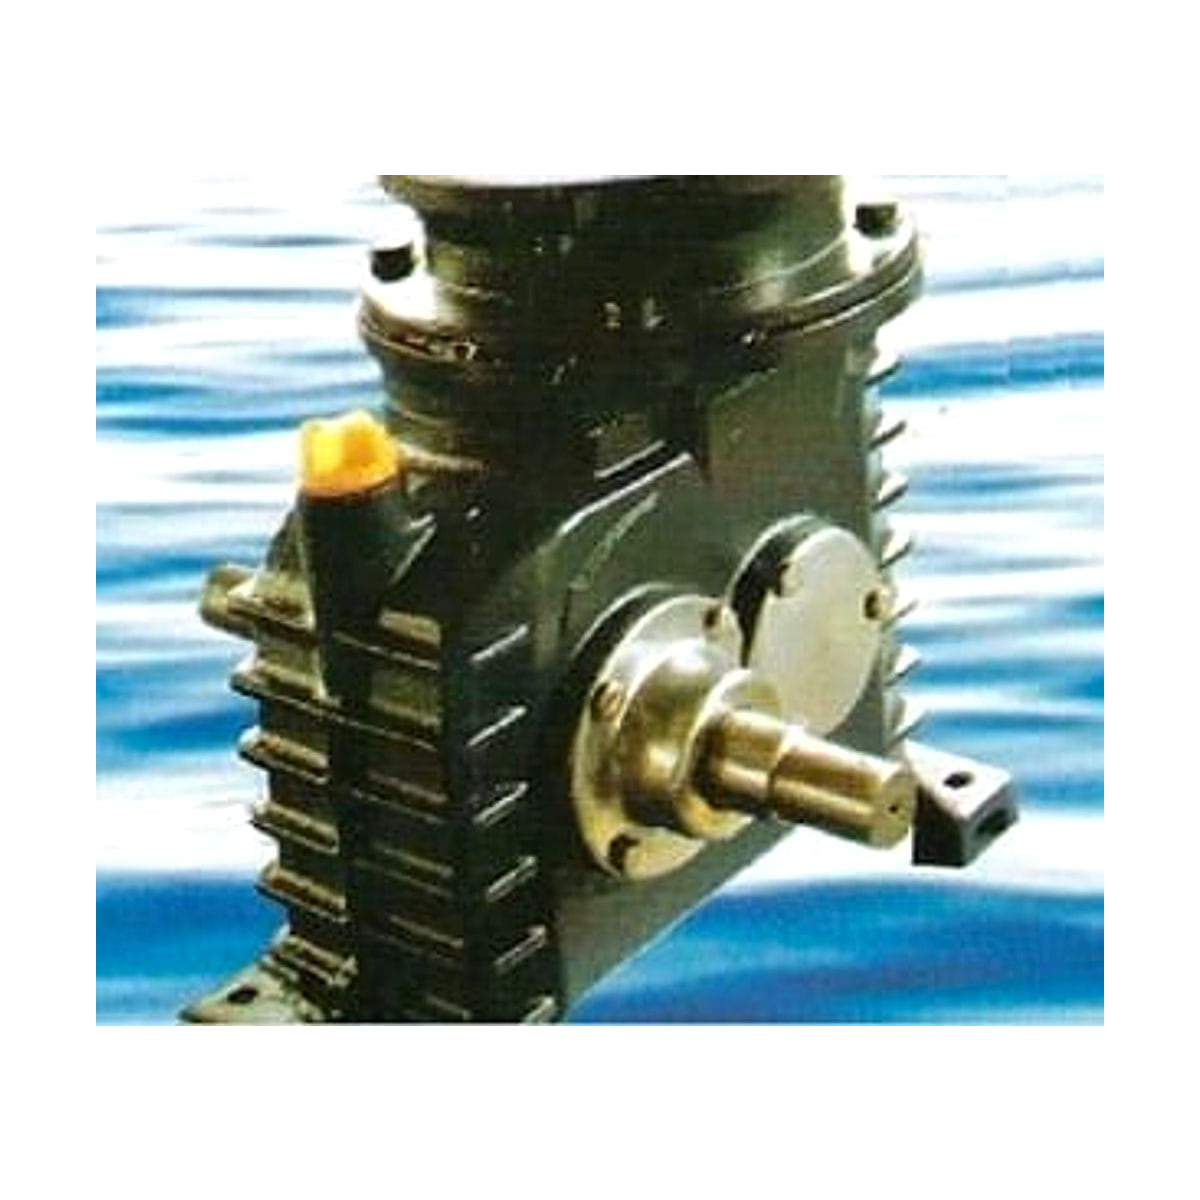
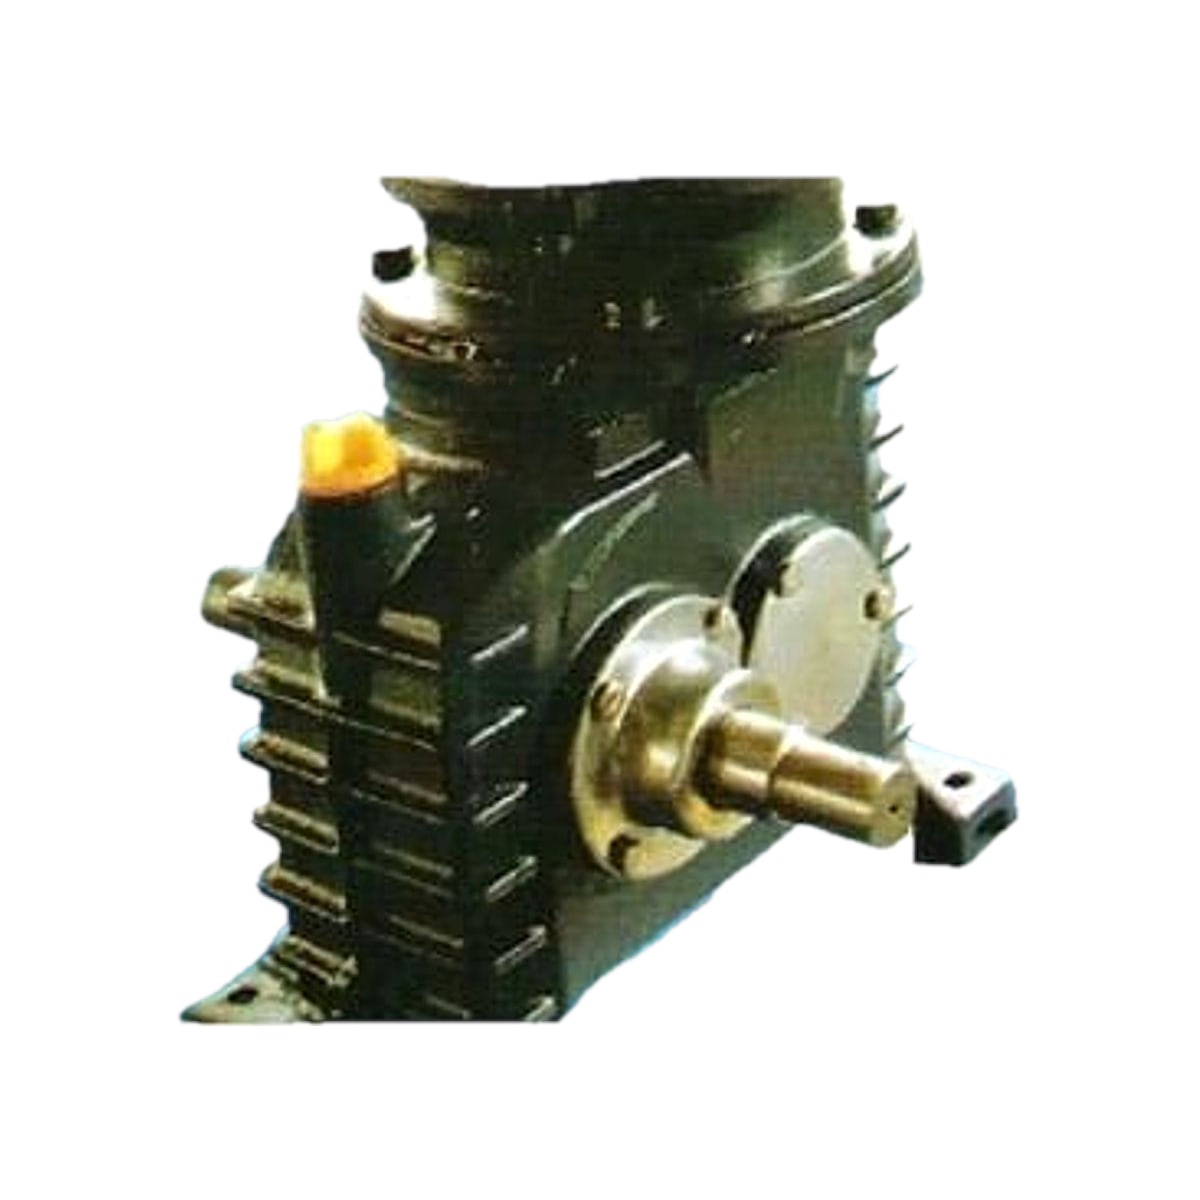
Catalogue: Chinese notes off the shop, a clean category link, photos on white
- The Chinese line at the end of every product description moves to
  metadata.note_zh: customers read the description on the shop, in the app
  and in search; the admin still shows the note. Seed and sync scripts carry
  it there; product-notes-zh.ts moves it once in existing databases.
- The machine category's handle was "kincir-air-(aerator)", taken from its
  name; WhatsApp ends a link at the bracket. It is "kincir-air" now (seed,
  sync script, and category-handles.ts for existing databases).
- Eleven catalogue photos had a blue square, water or a grey studio behind
  the part; the part is now cut out onto pure white (macOS Vision), file
  names unchanged.

diff --git a/apps/backend/src/migration-scripts/product-notes-zh.ts b/apps/backend/src/migration-scripts/product-notes-zh.ts
@@ -1,0 +1,42 @@
+import { MedusaContainer } from "@medusajs/framework";
+import { ContainerRegistrationKeys } from "@medusajs/framework/utils";
+import { updateProductsWorkflow } from "@medusajs/medusa/core-flows";
+
+// The first catalogue ended each product description with a line in Chinese for the owner.
+// Customers read the description on the shop and in the app, so that line moves to
+// metadata.note_zh, where the admin still shows it. Runs once; products without it are left alone.
+const CHINESE = /[一-鿿]/;
+const LAST_PARAGRAPH = /\n\s*\n([^\n]*)\s*$/;
+
+export default async function productNotesZh({
+  container,
+}: {
+  container: MedusaContainer;
+}) {
+  const logger = container.resolve(ContainerRegistrationKeys.LOGGER);
+  const query = container.resolve(ContainerRegistrationKeys.QUERY);
+
+  const { data: products } = await query.graph({
+    entity: "product",
+    fields: ["id", "title", "description", "metadata"],
+  });
+
+  for (const product of products) {
+    const description = product.description ?? "";
+    const last = LAST_PARAGRAPH.exec(description);
+    if (!last || !CHINESE.test(last[1])) {
+      continue;
+    }
+
+    await updateProductsWorkflow(container).run({
+      input: {
+        selector: { id: product.id },
+        update: {
+          description: description.slice(0, last.index).trimEnd(),
+          metadata: { ...(product.metadata ?? {}), note_zh: last[1].trim() },
+        },
+      },
+    });
+    logger.info(`Moved the Chinese note of "${product.title}" to metadata.note_zh`);
+  }
+}

diff --git a/apps/backend/src/scripts/sync-catalog.ts b/apps/backend/src/scripts/sync-catalog.ts
@@ -20,7 +20,9 @@ import { WANGJIA_PRODUCTS } from "../migration-scripts/initial-data-seed";
   - A product whose options (titles or values) changed in the seed is deleted
     and re-created; orders keep their own line-item snapshots.
 */
-const CATEGORIES = ["Kincir Air (Aerator)", "Suku Cadang"];
+// handles as in the seed: a bracket in a link breaks it in WhatsApp
+const HANDLES: Record<string, string> = { "Kincir Air (Aerator)": "kincir-air", "Suku Cadang": "suku-cadang" };
+const CATEGORIES = Object.keys(HANDLES);
 
 export async function syncCatalog(container: MedusaContainer, { recreate = false } = {}) {
   const logger = container.resolve(ContainerRegistrationKeys.LOGGER);
@@ -31,7 +33,7 @@ export async function syncCatalog(container: MedusaContainer, { recreate = false
   const missingCats = CATEGORIES.filter((n) => !categories.some((c) => c.name === n));
   if (missingCats.length) {
     await createProductCategoriesWorkflow(container).run({
-      input: { product_categories: missingCats.map((name) => ({ name, is_active: true })) },
+      input: { product_categories: missingCats.map((name) => ({ name, handle: HANDLES[name], is_active: true })) },
     });
     categories = await productModule.listProductCategories({ name: CATEGORIES });
   }

diff --git a/apps/backend/src/migration-scripts/category-handles.ts b/apps/backend/src/migration-scripts/category-handles.ts
@@ -1,0 +1,30 @@
+import { MedusaContainer } from "@medusajs/framework";
+import { ContainerRegistrationKeys } from "@medusajs/framework/utils";
+import { updateProductCategoriesWorkflow } from "@medusajs/medusa/core-flows";
+
+// The machine category got its handle from its name, "kincir-air-(aerator)": WhatsApp ends a
+// link at the bracket, so a shared link opened a missing page. Runs once.
+const RENAMES: Record<string, string> = { "kincir-air-(aerator)": "kincir-air" };
+
+export default async function categoryHandles({
+  container,
+}: {
+  container: MedusaContainer;
+}) {
+  const logger = container.resolve(ContainerRegistrationKeys.LOGGER);
+  const query = container.resolve(ContainerRegistrationKeys.QUERY);
+
+  const { data: categories } = await query.graph({
+    entity: "product_category",
+    fields: ["id", "handle"],
+    filters: { handle: Object.keys(RENAMES) },
+  });
+
+  for (const category of categories) {
+    const handle = RENAMES[category.handle];
+    await updateProductCategoriesWorkflow(container).run({
+      input: { selector: { id: category.id }, update: { handle } },
+    });
+    logger.info(`Category handle "${category.handle}" is now "${handle}"`);
+  }
+}
